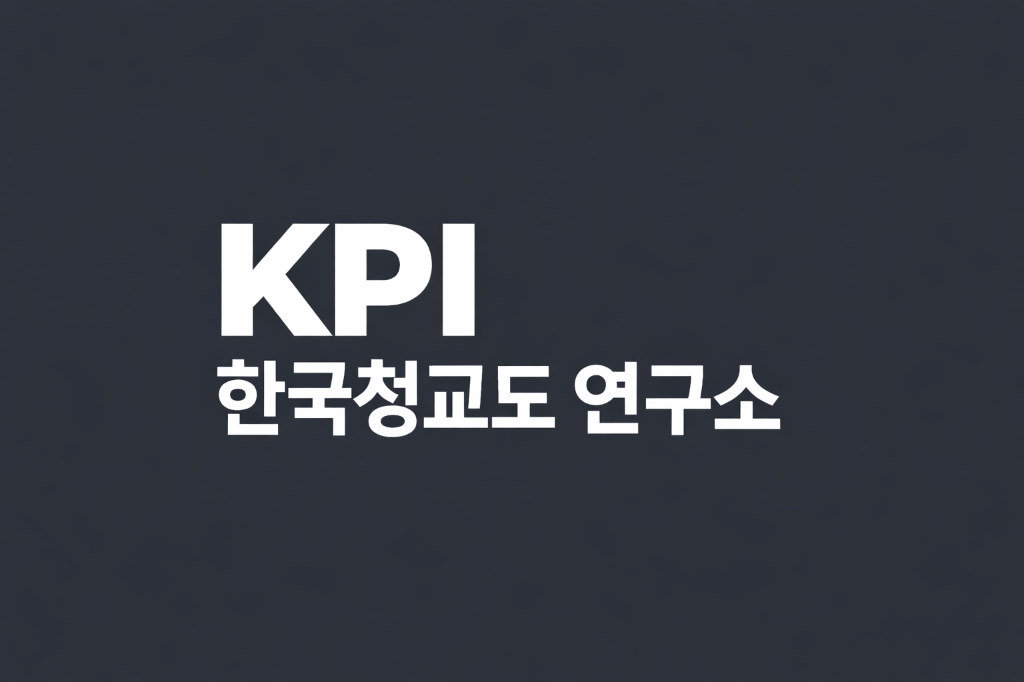
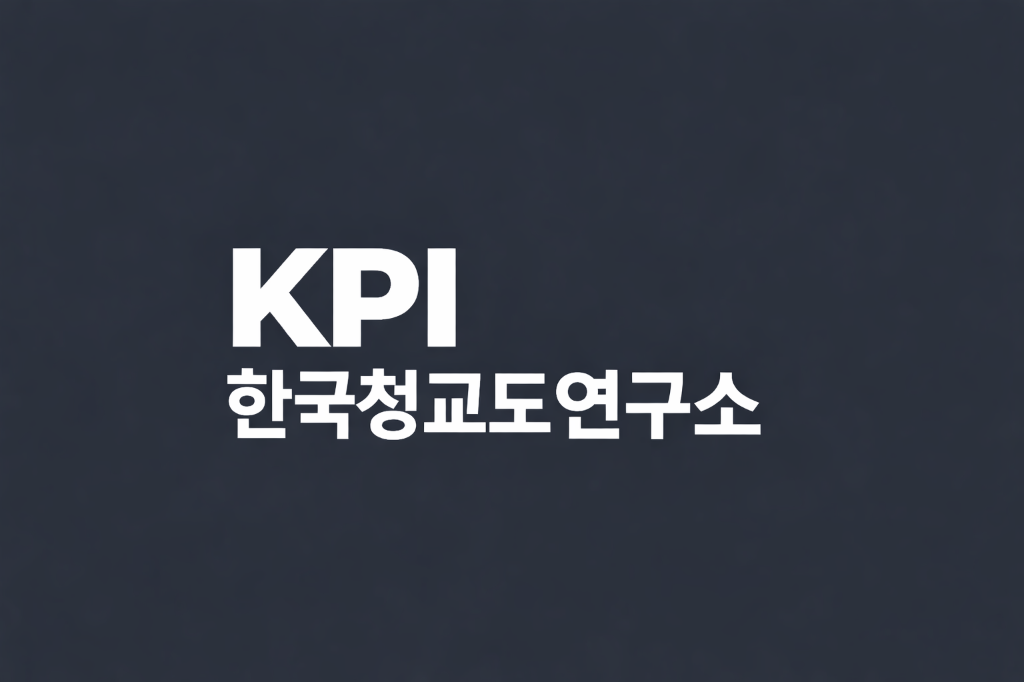
feat: 링크 공유 이미지(OG Image) 고화질 로고 버전으로 업데이트

Changed region(s): [[0.1875, 0.3079, 0.7812, 0.6466]]

diff --git a/index.html b/index.html
@@ -12,14 +12,14 @@
     <meta property="og:url" content="https://kpuritan.com/">
     <meta property="og:title" content="한국 청교도 연구소 | Korea Puritan Institute">
     <meta property="og:description" content="청교도 신학과 개혁주의 신념을 연구하고 성경적인 자료를 제공하는 한국 청교도 연구소입니다.">
-    <meta property="og:image" content="og-image.png">
+    <meta property="og:image" content="og-image.png?v=2">
 
     <!-- Twitter -->
     <meta property="twitter:card" content="summary_large_image">
     <meta property="twitter:url" content="https://kpuritan.com/">
     <meta property="twitter:title" content="한국 청교도 연구소 | Korea Puritan Institute">
     <meta property="twitter:description" content="청교도 신학과 개혁주의 신념을 연구하고 성경적인 자료를 제공하는 한국 청교도 연구소입니다.">
-    <meta property="twitter:image" content="og-image.png">
+    <meta property="twitter:image" content="og-image.png?v=2">
 
     <link rel="stylesheet" href="style.css">
     <!-- Favicon -->
